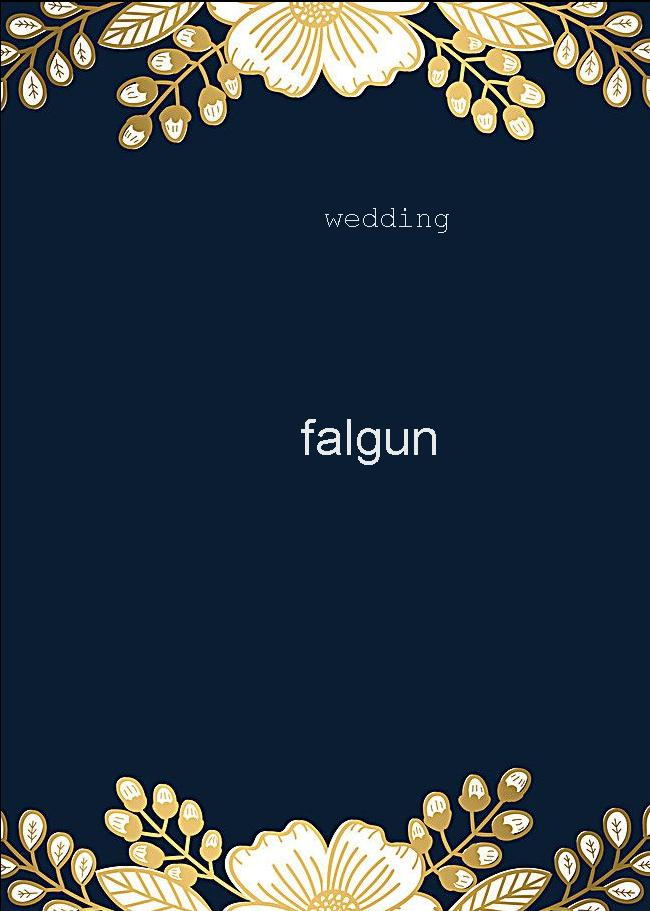
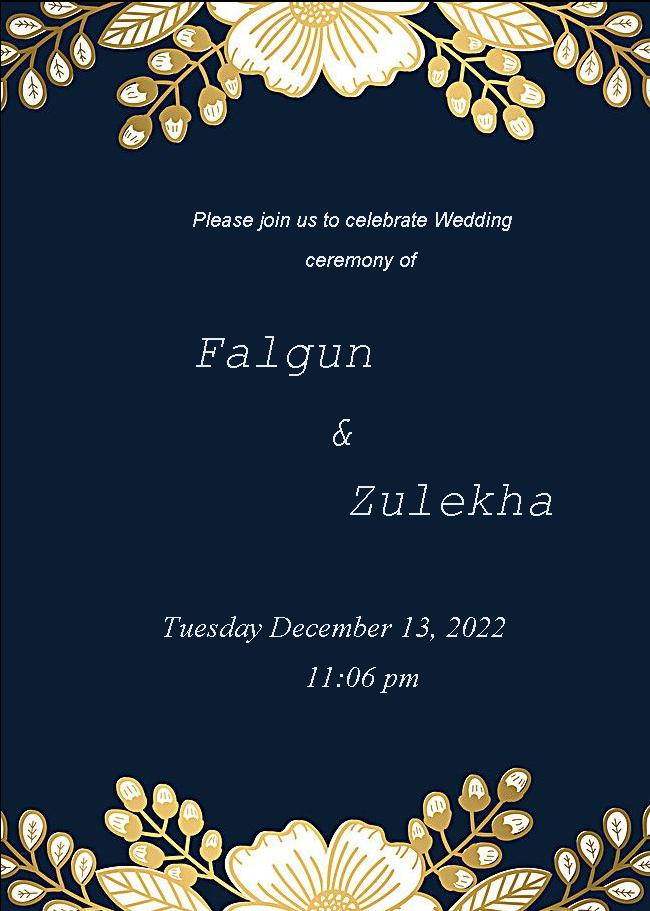
Refactoring EInvite Module

diff --git a/src/main/resources/templates/Einvite.html b/src/main/resources/templates/Einvite.html
@@ -3,26 +3,44 @@
 
 <head>
     <meta charset="UTF-8">
-    <title>Sign Up</title>
-    <link th:href="@{/css/signup.css}" rel="stylesheet">
+    <title>Einvite</title>
     <link rel="icon" th:href="@{/images/logo.png}" type="image/x-icon">
+    <link th:href="@{/css/UserEventExtendedDetails.css}" rel="stylesheet">
+    <link th:href="@{/css/home.css}" rel="stylesheet">
+    <style>
+        .button {
+    background-color: #4CAF50; /* Green */
+     border: none;
+     color: white;
+     padding: 15px 32px;
+     text-align: center;
+     text-decoration: none;
+     display: inline-block;
+    font-size: 16px;
+        }
+    </style>
 </head>
 <body>
-<div class="signupcontainer">
-    <div class="split left">
+    <th:block th:include="fragments/loggedInHeader :: loggedInHeader"></th:block>
+<div class="container">
+
         <p><span style="font-size:38px;">Design you Electronic Invite</span></p>
         <form th:action="@{/handleInvite}" th:object="${eInviteModel}" method="post">
+            <p>What should we call this event?</p>
             <input maxlength="20" name="ceremonyName" required="required" type="text"
             th:field="*{ceremonyName}" />   <br> <br>
+            <p>Event Host name</p>
             <input maxlength="20" name="eventHost1" required="required" type="text" th:field="*{eventHost1}" />  <br> <br>
+            <p>Event Host name 2 (optional)</p>
         <input maxlength="20" name="eventHost2" type="text" th:field="*{eventHost2}" />    <br> <br> 
+        <p>Time for guests to arrive.</p>
         <input maxlength="20" name="timeOfEvent" type="datetime-local" th:field="*{timeOfEvent}"  >
-            <p><input class="btn" name="Sign Up" type="submit" value="Sign Up" /></p>
+       <br><br>
+            <p><input class="button" name="Sign Up" type="submit" value="Generate Einvite" /></p>
+            
         </form>
-    </div>
-    <div class="split right">
-        <img th:src="@{/images/signupimage.jpg}" class="image">
-    </div>
+
 </div>
+
 </body>
 </html>

diff --git a/src/main/resources/templates/DownloadEInvite.html b/src/main/resources/templates/DownloadEInvite.html
@@ -6,28 +6,27 @@
     <link th:href="@{/css/home.css}" rel="stylesheet">
     <link th:href="@{/css/UserEventExtendedDetails.css}" rel="stylesheet">
     <link rel="icon" th:href="@{/images/logo.png}" type="image/x-icon">
+    <style>
+        .fcc-btn {
+  background-color: #199319;
+  color: white;
+  padding: 15px 25px;
+  text-decoration: none;
+  width: 200;
+}
+    </style>
 </head>
 <body>
 <th:block th:include="fragments/loggedInHeader :: loggedInHeader"></th:block>
 <div class="container">
-    <h1 style="text-align: center;">Design your Eloctronic Invite:</h1>
-    <form th:action="@{/handleEInvite}" th:object="${eInvite}" method="post" class="container">
-    <div>
-      <label>Ceremony Name</label>
-      <input maxlength="20" name="ceremonyName" required="required" type="text"
-                      th:field="*{ceremonyName}" />
-                      <br> <br>
-        <label>Host Name 1 *</label>
-        <input maxlength="20" name="eventHost1" required="required" type="text"
-                                                                    th:field="*{eventHost1}" />  <br> <br>
-        <label>Host Name 2 (Optional)</label>
-        <input maxlength="20" name="eventHost2" type="text" th:field="*{eventHost2}" />    <br> <br> 
-        
-        <label>Time of event</label>
-        <input maxlength="20" name="time" type="time" th:field="*{timeOfEvent}"  >  <br> <br>
-    </div>
-        <div><input class="btn" name="Submit" type="submit" value="Submit"/></div>
-    </form>
+
+    <h1 style="text-align: center;">Your download is ready</h1>
+    <a class ="fcc-btn" th:href="@{images/generatedEInvite.jpg}" download="Einvite.jpg">Download Image</a>
+    <br>
+
+    <img src="../static/images/generatedEInvite.jpg" th:src="@{images/generatedEInvite.jpg}">
+
 </div>
+</script>
 </body>
 </html>

diff --git a/src/main/java/group11/EventFiesta/EInvite/EInviteHandler.java b/src/main/java/group11/EventFiesta/EInvite/EInviteHandler.java
@@ -3,6 +3,12 @@ package group11.EventFiesta.EInvite;
 import java.awt.image.BufferedImage;
 import java.io.File;
 import java.io.IOException;
+
+import java.text.ParseException;
+import java.text.SimpleDateFormat;
+
+import java.util.Date;
+import java.util.Locale;
 import java.awt.*;
 import java.awt.geom.Rectangle2D;
 
@@ -10,47 +16,160 @@ import javax.imageio.ImageIO;
 
 public class EInviteHandler {
     EInviteModel eObject;
+    private File input;
+    private File output;
+    private String title;
+    private String subTitle;
+    private String templateName;
+    private String outputFileName;
+    private SimpleDateFormat sdf;
+    private BufferedImage img;
+    int centerX = 0;
+    int centerY = 0;
+    int topX = 0;
+    int topY = 0;
+    int bottomY = 0;
 
     public EInviteHandler(EInviteModel model) {
         this.eObject = model;
+        init();
+    }
+
+    private void init() {
+
+        this.title = "Please join us to celebrate " + eObject.getCeremonyName();
+        this.subTitle = "ceremony of";
+        this.templateName = "einviteTemplate2.jpg";
+        this.outputFileName = "generatedEInvite.jpg";
+        this.input = new File("src/main/resources/static/images/" + templateName);
+        this.output = new File("src/main/resources/static/images/" + outputFileName);
+        this.sdf = new SimpleDateFormat("yyyy-MM-dd'T'hh:mm",
+                Locale.ENGLISH);
+
     }
 
     public void AddTextInImage() {
-        File input = new File("src/main/resources/static/images/einviteTemplate2.jpg");
-        File outPut = new File("src/main/resources/static/images/generatedEInvite.jpg");
-        
 
         try {
-            BufferedImage image = ImageIO.read(input);
-            int imageType = "jpg".equalsIgnoreCase("jpg") ? BufferedImage.TYPE_INT_RGB : BufferedImage.TYPE_INT_ARGB;
-            BufferedImage bold = new BufferedImage(image.getWidth(), image.getHeight(), imageType);
 
-            Graphics2D w = (Graphics2D) bold.getGraphics();
-            w.drawImage(image, 1, 2, null);
-            AlphaComposite alpha = AlphaComposite.getInstance(AlphaComposite.SRC_OVER, 0.9f);
-            w.setComposite(alpha);
+            BufferedImage orgImg = getOriginalImage();
 
-            FontMetrics fmatrics = w.getFontMetrics();
-            Rectangle2D rect = fmatrics.getStringBounds(eObject.getCeremonyName(), w);
+            BufferedImage buffImg = getBufferdImage();
+            Graphics2D graphics = getGraphicsObject(buffImg);
 
-            int centerX = (image.getWidth() - (int) rect.getWidth()) / 2;
-            int centerY = image.getHeight() / 2;
-            int topX = image.getWidth() / 3;
-            int topY = image.getHeight() / 4;
+            FontMetrics fmatrics = graphics.getFontMetrics();
+            Rectangle2D rect = fmatrics.getStringBounds(eObject.getCeremonyName(), graphics);
 
-            w.setColor(Color.white);
-            w.setFont(new Font(Font.MONOSPACED, Font.PLAIN, 30));
-            w.drawString(eObject.getCeremonyName(), topX, topY);
+            centerX = (orgImg.getWidth() - (int) rect.getWidth()) / 2;
+            centerX = orgImg.getWidth() / 2;
+            centerY = orgImg.getHeight() / 2;
+            topX = orgImg.getWidth() / 4;
+            topY = orgImg.getHeight() / 4;
+            bottomY = orgImg.getHeight() / 5;
 
-            w.setColor(Color.white);
-            w.setFont(new Font(Font.SANS_SERIF, Font.PLAIN, 50));
-            w.drawString(eObject.getEventHost1(), centerX, centerY);
-            ImageIO.write(bold, "jpg", outPut);
+            graphics.setColor(Color.white);
+            graphics.setFont(new Font(Font.SANS_SERIF, Font.ITALIC, 20));
+            graphics.drawString(this.title, topX + 30, topY);
+            graphics.drawString(this.subTitle, centerX - 20, topY + 40);
 
-            w.dispose();
+            graphics.setFont(new Font(Font.DIALOG_INPUT, Font.ITALIC, 50));
+            String host2 = eObject.getEventHost2();
+            if (host2 != null && host2 != "") {
+                graphics.drawString("&", centerX, centerY - 10);
+                graphics.drawString(eObject.getEventHost2(), centerX + 20, centerY + 60);
+                graphics.drawString(eObject.getEventHost1(), topX + 30, topY + 140);
+            } else {
+                graphics.drawString(eObject.getEventHost1(), centerX - 30, centerY);
+            }
+
+            graphics.setFont(new Font(Font.SERIF, Font.ITALIC, 30));
+            graphics.drawString(getFormatedDate(), topX, centerY + bottomY);
+            graphics.drawString(getFormatedTime(), centerX - 20, centerY + bottomY + 50);
+
+            // drawTitle(graphics);
+
+            // drawCenter(graphics);
+
+            // drawBottom(graphics);
+
+            ImageIO.write(buffImg, "jpg", output);
+
+            graphics.dispose();
 
         } catch (IOException e) {
             e.printStackTrace();
         }
+    }
+
+    private BufferedImage getOriginalImage() {
+        try {
+            img = ImageIO.read(input);
+        } catch (IOException e) {
+            System.out.println("Error in reading Image");
+            e.printStackTrace();
+        }
+        return img;
+    }
+
+    private String getFormatedDate() {
+        try {
+            Date parsedDate = sdf.parse(eObject.getTimeOfEvent());
+            SimpleDateFormat date = new SimpleDateFormat("EEEEEE MMMMMM d, yyyy");
+            return date.format(parsedDate);
+        } catch (ParseException e) {
+            System.out.println("Error in Parsing Formated Date");
+            e.printStackTrace();
+            return null;
+        }
+    }
+
+    private String getFormatedTime() {
+        try {
+            Date parsedTime = sdf.parse(eObject.getTimeOfEvent());
+            SimpleDateFormat time = new SimpleDateFormat("hh:mm aa");
+            return time.format(parsedTime);
+        } catch (ParseException e) {
+            e.printStackTrace();
+            return null;
+        }
+    }
+
+    private Graphics2D getGraphicsObject(BufferedImage bold) {
+        Graphics2D graphics2d = (Graphics2D) bold.getGraphics();
+        AlphaComposite alphaComposite = AlphaComposite.getInstance(AlphaComposite.SRC_OVER, 0.9f);
+        graphics2d.drawImage(img, 1, 2, null);
+        graphics2d.setComposite(alphaComposite);
+        return graphics2d;
+    }
+
+    private BufferedImage getBufferdImage() {
+        int imgType = "jpg".equalsIgnoreCase("jpg") ? BufferedImage.TYPE_INT_RGB : BufferedImage.TYPE_INT_ARGB;
+        BufferedImage bufferedImage = new BufferedImage(img.getWidth(), img.getHeight(), imgType);
+        return bufferedImage;
+    }
+
+    private void drawTitle(Graphics2D graphics2d) {
+        graphics2d.setColor(Color.white);
+        graphics2d.setFont(new Font(Font.SANS_SERIF, Font.ITALIC, 20));
+        graphics2d.drawString(title, topX, topY);
+        graphics2d.drawString(subTitle, centerX - 20, topY + 40);
+    }
+
+    private void drawCenter(Graphics2D graphics2d) {
+        graphics2d.setFont(new Font(Font.DIALOG_INPUT, Font.ITALIC, 50));
+        String host2 = eObject.getEventHost2();
+        if (host2 != null && host2 != "") {
+            graphics2d.drawString("&", centerX, centerY - 10);
+            graphics2d.drawString(eObject.getEventHost2(), centerX + 20, centerY + 60);
+            graphics2d.drawString(eObject.getEventHost1(), topX + 30, topY + 140);
+        } else {
+            graphics2d.drawString(eObject.getEventHost1(), centerX - 30, centerY);
+        }
+    }
+
+    private void drawBottom(Graphics2D graphics2d) {
+        graphics2d.setFont(new Font(Font.SERIF, Font.ITALIC, 30));
+        graphics2d.drawString(getFormatedDate(), topX, centerY + bottomY);
+        graphics2d.drawString(getFormatedTime(), centerX - 20, centerY + bottomY + 50);
     }
 }

diff --git a/src/main/java/group11/EventFiesta/controller/EInviteController.java b/src/main/java/group11/EventFiesta/controller/EInviteController.java
@@ -1,14 +1,32 @@
 package group11.EventFiesta.controller;
 
+import java.io.ByteArrayOutputStream;
+import java.io.File;
+import java.io.IOException;
+import java.io.OutputStream;
+import java.nio.file.Files;
+import java.nio.file.Path;
+import java.nio.file.Paths;
 import java.time.LocalDate;
 import java.util.Date;
 
+import javax.servlet.http.HttpServletResponse;
+import javax.servlet.http.HttpSession;
+
+import org.springframework.core.io.ByteArrayResource;
+import org.springframework.core.io.Resource;
+import org.springframework.http.HttpHeaders;
+import org.springframework.http.MediaType;
+import org.springframework.http.ResponseEntity;
 import org.springframework.stereotype.Controller;
 import org.springframework.ui.Model;
+import org.springframework.validation.BindingResult;
 import org.springframework.web.bind.annotation.GetMapping;
 import org.springframework.web.bind.annotation.ModelAttribute;
+import org.springframework.web.bind.annotation.PostMapping;
 import org.springframework.web.bind.annotation.RequestMapping;
 import org.springframework.web.bind.annotation.RequestMethod;
+import org.springframework.web.bind.annotation.RequestParam;
 import org.springframework.web.bind.annotation.SessionAttributes;
 
 import group11.EventFiesta.EInvite.EInviteHandler;
@@ -24,7 +42,7 @@ public class EInviteController {
         return "Einvite";
     }
 
-    @RequestMapping(value = "/handleInvite", method = RequestMethod.POST)
+    @PostMapping("/handleInvite")
     public String handleInvite(@ModelAttribute EInviteModel eInviteModel) {
         EInviteHandler handle = new EInviteHandler(eInviteModel);
         handle.AddTextInImage();

diff --git a/src/main/java/group11/EventFiesta/authentication/FilterRegistration.java b/src/main/java/group11/EventFiesta/authentication/FilterRegistration.java
@@ -25,7 +25,7 @@ public class FilterRegistration {
                         +
                         "/userForgotPassword|/userResetPassword|/userSecurityQuestion|/handleUserResetPassword|/handleUserSecurityQuestion|/handleUserForgotPasswordWithSecurityQuestion|"
                         +
-                        "/organizerForgotPassword|/organizerResetPassword|/organizerSecurityQuestion|/handleOrganizerForgotPasswordWithSecurityQuestion|/handleOrganizerResetPassword|/handleOrganizerSecurityQuestion|/einvite|/bestOrganizers|/handleInvite|/einviteTest");
+                        "/organizerForgotPassword|/organizerResetPassword|/organizerSecurityQuestion|/handleOrganizerForgotPasswordWithSecurityQuestion|/handleOrganizerResetPassword|/handleOrganizerSecurityQuestion|/einvite|/bestOrganizers|/handleInvite|/einviteTest|/DownloadEInvite");
         registration.setName("authenticationFilter");
         registration.setOrder(1);
         return registration;
